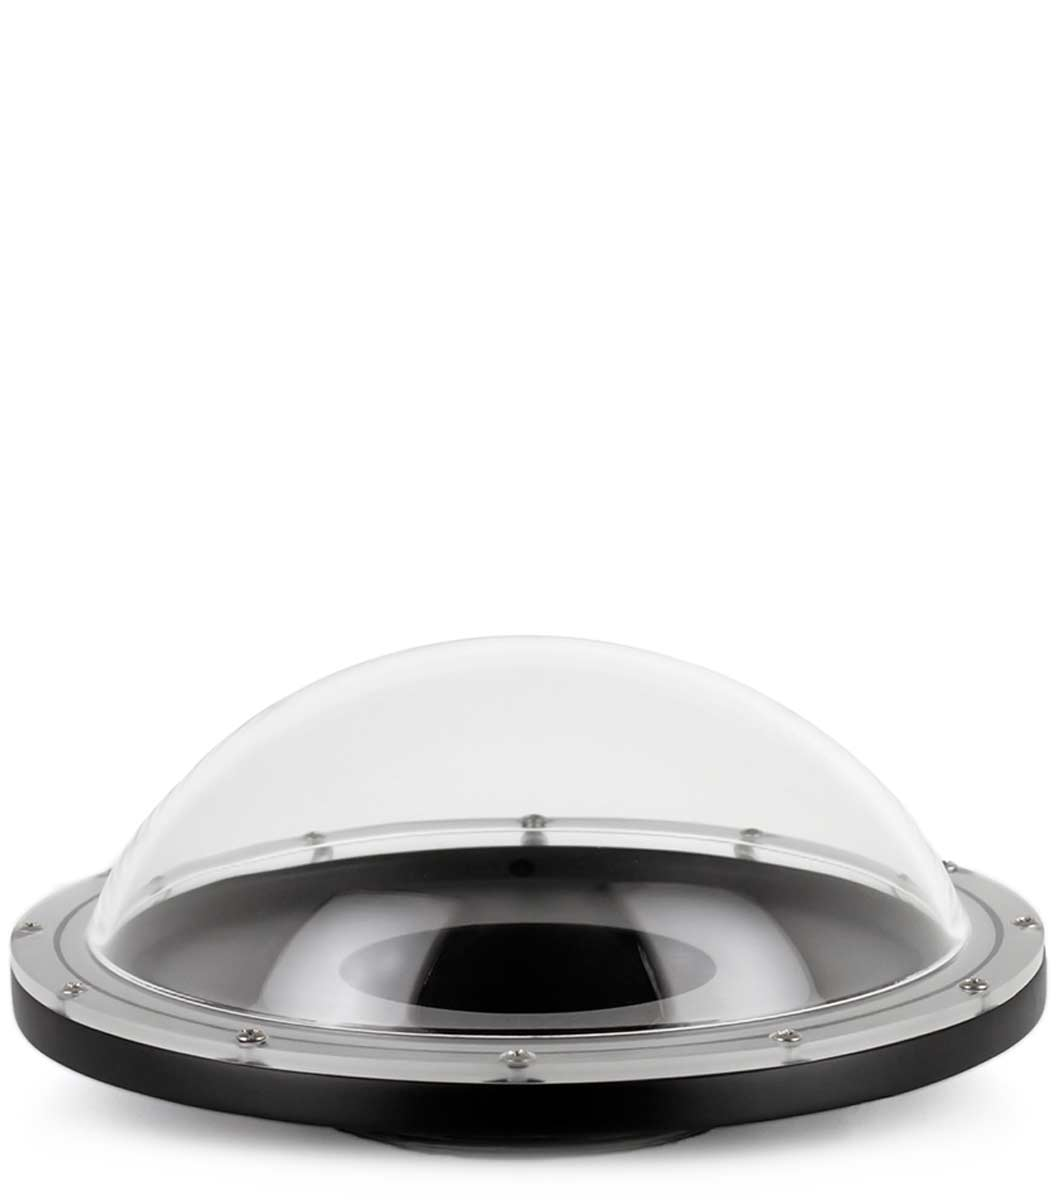
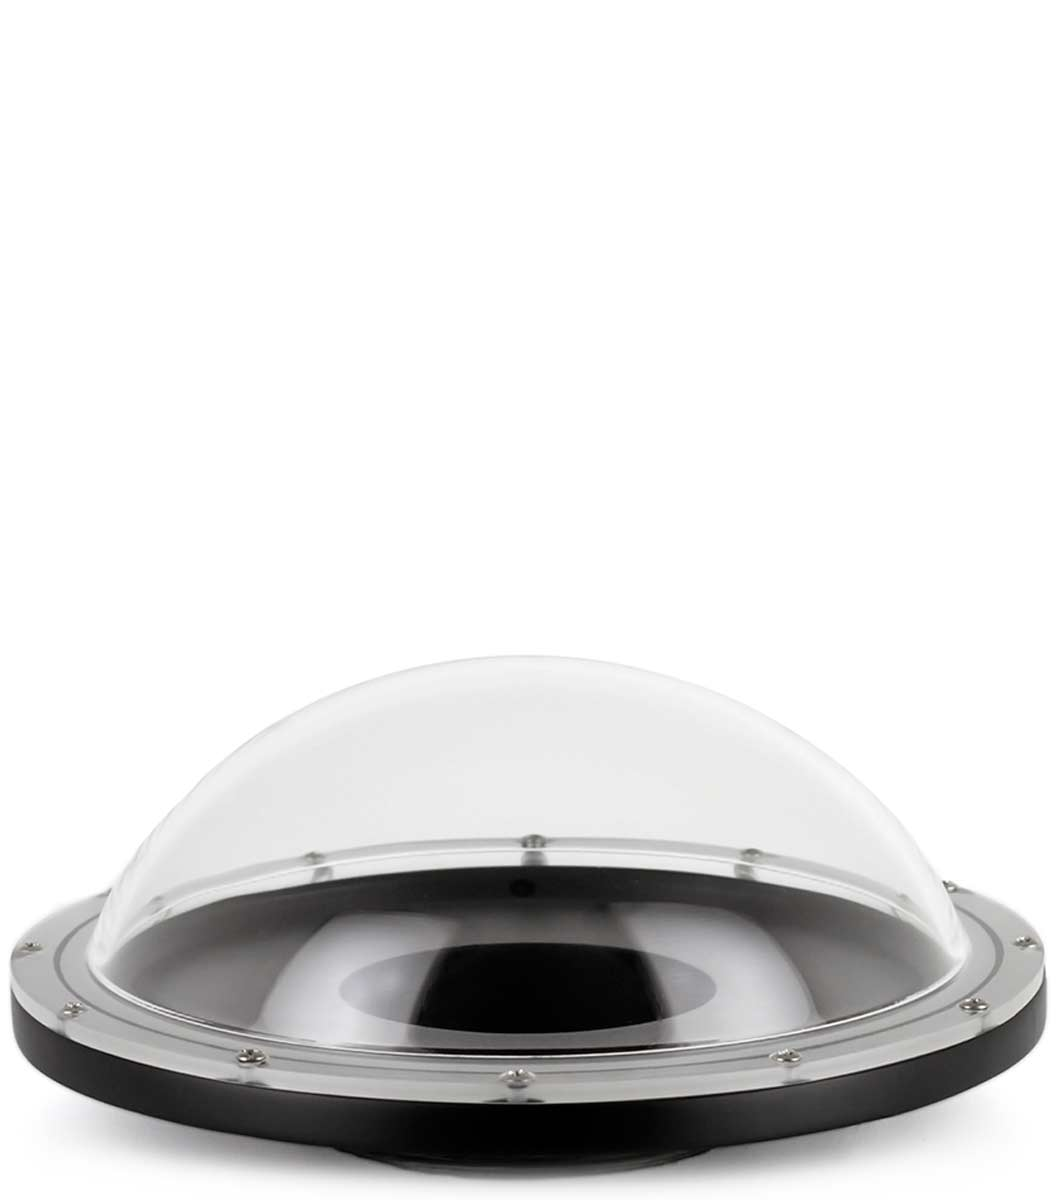
fisheye dome made even bigger

Changed region(s): [[0.0, 0.6783, 0.9991, 1.0]]

diff --git a/_layouts/accessories.html b/_layouts/accessories.html
@@ -96,7 +96,7 @@
                 {% if port.serie=="M" %}
                 <a class="looper__link port" href="{{ site.baseurl }}/accessories/ports/{{ port.name}}">
                   <div class="product_block">
-                    <img  class="product_thumb" src="{{ site.baseurl }}/assets/p/accessories/ports/{{ port.name | downcase }}/t.jpg" alt="Liquid Eye Front Ports: {{ port.name }}">
+                    <img  class="product_thumb {{ port.name }}" src="{{ site.baseurl }}/assets/p/accessories/ports/{{ port.name | downcase }}/t.jpg" alt="Liquid Eye Front Ports: {{ port.name }}">
                     <div class="product_group"><span>Front Port</span></div>
                     <h3>{{ port.name }}</h3>
                   </div>
@@ -124,7 +124,7 @@
                 {% if port.serie=="L" %}
                 <a class="looper__link port" href="{{ site.baseurl }}/accessories/ports/{{ port.name}}">
                   <div class="product_block">
-                    <img  class="product_thumb" src="{{ site.baseurl }}/assets/p/accessories/ports/{{ port.name | downcase }}/t.jpg" alt="Liquid Eye Front Ports: {{ port.name }}">
+                    <img  class="product_thumb {{ port.name }}" src="{{ site.baseurl }}/assets/p/accessories/ports/{{ port.name | downcase }}/t.jpg" alt="Liquid Eye Front Ports: {{ port.name }}">
                     <div class="product_group"><span>Front Port</span></div>
                     <h3>{{ port.name }}</h3>
                   </div>

diff --git a/_sass/_products.scss b/_sass/_products.scss
@@ -542,5 +542,5 @@
 
 
 .product_block img.s-ld-4916 {
-  min-width: 220px;
+  min-width: 250px;
 }
